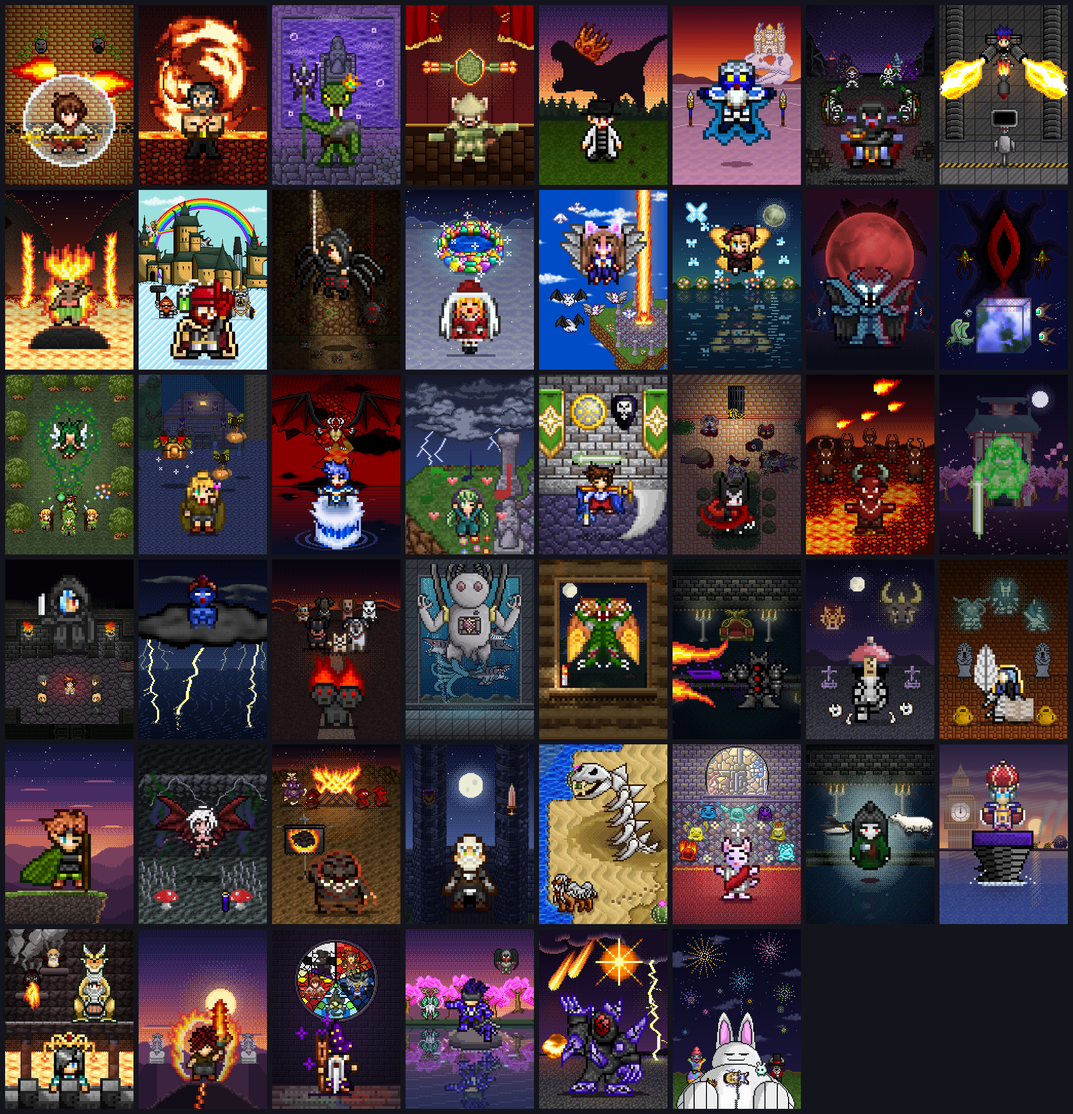
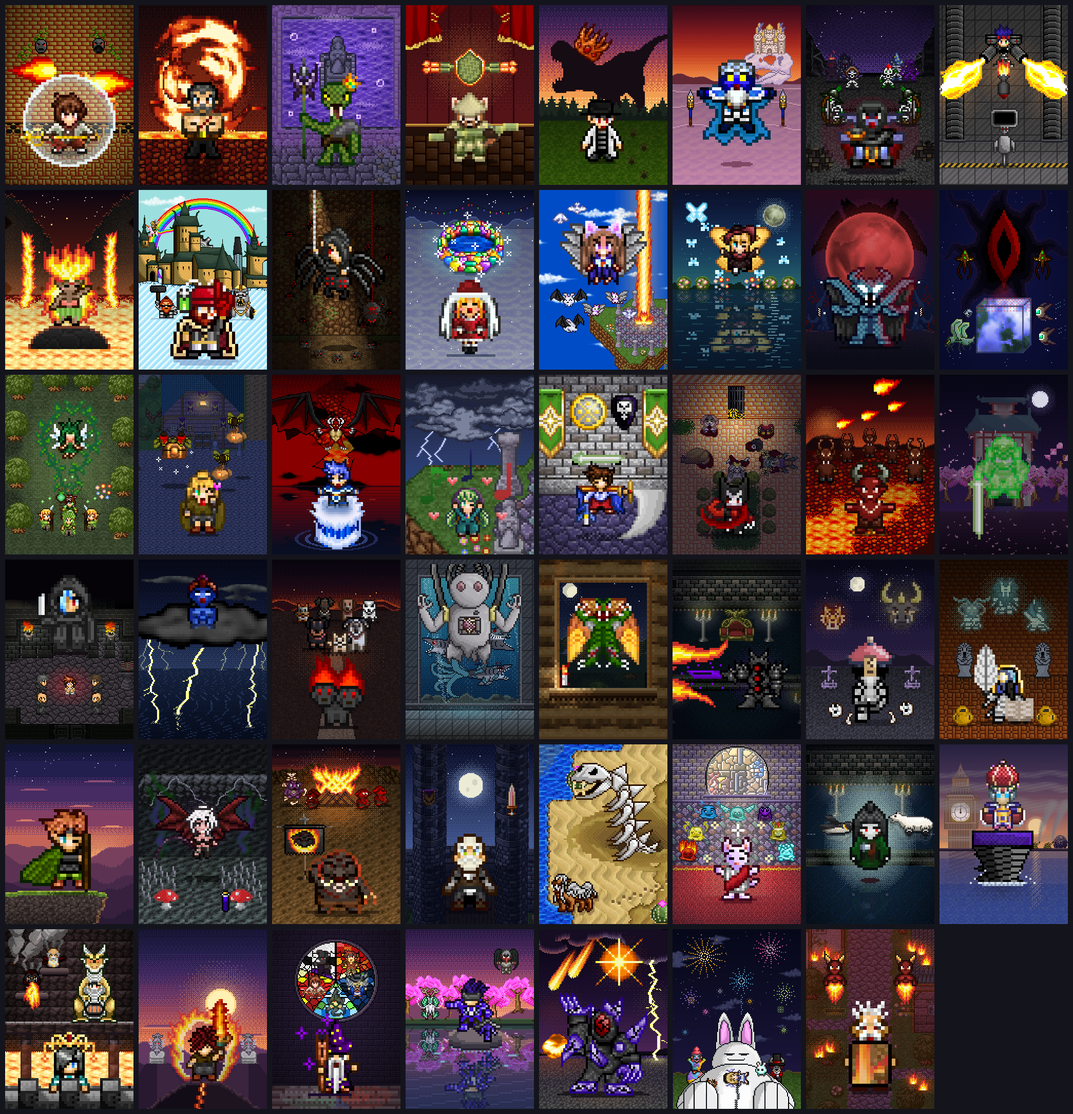
Gegner-Sleeve „Prophecy Fulfilled“ für Damus (End of the World)
Claude-Session: https://claude.ai/code/session_01TEnvTzH2xD44R6Unjv7vDo

Changed region(s): [[0.7464, 0.8336, 0.8708, 1.0]]

diff --git a/data/sleeve-proposals/runde6/generator/s47_prophecy_fulfilled.py b/data/sleeve-proposals/runde6/generator/s47_prophecy_fulfilled.py
@@ -1,0 +1,107 @@
+# -*- coding: utf-8 -*-
+"""47 Prophecy Fulfilled – Gegner „End of the World“ (sample-Structure Deck End of the World, Cover: Armageddon),
+Held/Hauptmotiv: Damus, the Prophet of Apocalypse (Base-Karte, NICHT „Captain Commander Damus“).
+
+Idee (≠ 45 „Spellstorm“: keine Sternexplosion, keine Kometen, kein Himmel): Die Prophezeiung hat sich erfüllt.
+Draufsicht auf die nächtliche Dorfstraße seiner Karte (vor dem Pub): Armageddon hat das Dorf getroffen, Dächer,
+Fassade und Baumkronen brennen, alles liegt im roten Widerschein. Mitten auf der Straße steht Damus groß und
+unversehrt mit seinem Weltuntergangs-Schild (auf ihm das Armageddon-Bild seiner Karte) – solange er ein Ifrit
+kontrolliert, trifft ihn Armageddon nicht (Heldentext). Links und rechts hinter ihm schweben als Wächter zwei
+Ifrits auf ihren Feuerstrahlen (er setzt sie in seine Support Zones; sie verstärken Armageddon), ihr Feuer
+beleuchtet den Boden unter ihnen.
+
+Quellen (Motive.xcf):
+  Damus:  Ebene 361 „Damos“ (16×25 samt Schild; gegen „Sichtbar #171“ = Ebene 357 pixelgleich, 0 Abweichungen).
+  Ifrit:  Ebene 576 „Ifrit“ (16×35 mit Feuerstrahl; rechter gespiegelt).
+  Dorf:   Ebene 362 „Ebene #680“ (Dorfkarte seiner Kartenszene, Ausschnitt x183–308/y128–303 – ohne die
+          Texte „FPS: 60“ und „PUB“; der Passant auf der Straße mit Pflaster von 40 Zeilen darüber übermalt).
+  Feuer:  Ebene 578 „Ebene #463“ (Flammen der Armageddon-Karte, vier Varianten, in Gruppen auf Dächern/Bäumen).
+Selbst gezeichnet: Nachtfärbung, roter Widerschein, Feuerschein, Schatten.
+
+Skalierung (Tiefenebenen):
+  Dorf, Flammen, Feuerschein – 2×-Raster (125×175)
+  Ifrits + ihre Schatten – 3×-Raster (84×117, um 2 px versetzt; spiegelgleich um x 125: Mitten 56/194)
+  Damus + Schatten – 7×-Raster (35×50, um 6 px versetzt), 16×25 → 336×525 px.
+  Gesichtsmitte: Augen auf Sprite-Spalten 6/9, Kopf 2–13 → Mitte 8,0 → 6 + 7·(9 + 8) = 125.
+  Gemessen am PNG: Augen x 333–416, Kopfumriss x 249–500 → Gesichtsmitte x = 375,0.
+"""
+import math, random
+import numpy as np
+from kitI import *  # noqa
+
+rnd = random.Random(47)
+B = 'Motive'
+
+# ------------------------------------------------------------------ Quellen
+damus = keep('o47_damus', crop_alpha(layer(B, 361)))                    # 16×25 mit Schild, = Sichtbar #171 pixelgleich
+ifrit = keep('o47_ifrit', crop_alpha(layer(B, 576)))                    # 16×35, schwebt auf seinem Feuerstrahl
+FL = []                                                                  # Flammen der Armageddon-Karte (Ebene 578)
+for p in parts(crop_alpha(layer(B, 578)), dil=0, minpx=10):
+    if p.shape[0] <= 13 and p.shape[1] >= 9 and not any(p.shape == q.shape and (p == q).all() for q in FL):
+        FL.append(p)
+for i, f in enumerate(FL): keep('o47_flame%d' % i, f)
+town = layer(B, 362)[128:303, 183:308].copy()                           # Dorfstraße seiner Karte (125×175)
+
+# Passant auf der Straße entfernen: Pflaster 40 Zeilen weiter oben
+FIGM = np.zeros(town.shape[:2], bool); FIGM[92:119, 69:88] = True
+town[FIGM] = town[np.roll(FIGM, -40, axis=0)]
+
+# ================================================================== Ebene 2× (125×175): brennendes Dorf bei Nacht
+P = Plane(125, 175, 2)
+t = town.astype(float)
+lum = t[..., :3].mean(-1, keepdims=True)
+night = t[..., :3] * np.array((0.42, 0.34, 0.46)) + lum * np.array((0.05, 0.02, 0.06))
+P.a[..., :3] = np.clip(night, 0, 255); P.a[..., 3] = 255
+
+
+def glow(cx, cy, r, col, a, ry=None):
+    ry = ry or r
+    for y in range(int(cy - ry), int(cy + ry) + 1):
+        for x in range(int(cx - r), int(cx + r) + 1):
+            d = math.hypot((x - cx) / r, (y - cy) / ry)
+            if d < 1:
+                q = dith(a * (1 - d) ** 1.5, x, y, 4)
+                if q > 0: P.blend(x, y, col, q)
+
+
+# rötlicher Widerschein des Weltenbrands über dem ganzen Dorf (oben stärker), geordnet gerastert
+for y in range(175):
+    for x in range(125):
+        P.blend(x, y, (150, 40, 14), dith(0.30 - 0.18 * y / 175, x, y, 6))
+
+# Brände: Armageddon hat das Dorf getroffen – Dach, Fassade und Baumkronen brennen
+FIRES = [(4, 20, 0), (14, 16, 2), (24, 22, 1), (98, 10, 3), (108, 14, 0), (112, 24, 2), (8, 112, 1), (18, 108, 3), (100, 140, 0), (109, 146, 2)]
+for (x, y, v) in FIRES:
+    glow(x + 5, y + 6, 16, (230, 90, 20), 0.55, 12)
+for (x, y, v) in FIRES:
+    P.paste(FL[v % len(FL)], x, y)
+# Feuerschein der Ifrit-Strahlen auf dem Boden unter ihnen (Mitten im 2×-Raster: 3·(gx+8)+2 → /2)
+for gx in (10, 56):
+    glow((3 * (gx + 8) + 2) / 2, (3 * (14 + 39) ) / 2, 14, (240, 120, 30), 0.40, 6)
+
+# ================================================================== Ebene 3× (84×117, um 2 px versetzt): zwei Ifrits
+# als Wächter, weiter hinten über dem Gras links und rechts der Straße schwebend (rechter gespiegelt, spiegelgleich
+# um x 125: Mitten 56 / 194)
+F3 = Plane(84, 117, 3, ox=2)
+IFY = 14
+for gx, spr in ((10, ifrit), (56, flip(ifrit))):
+    F3.paste(spr, gx, IFY)
+    # Schatten auf dem Boden, ein Stück unter der Flammenspitze (schwebt)
+    cx, cy = gx + 8, IFY + 35 + 4
+    for y in range(cy - 2, cy + 3):
+        for x in range(cx - 8, cx + 9):
+            if ((x + 0.5 - cx) / 6.5) ** 2 + ((y + 0.5 - cy) / 1.3) ** 2 <= 1:
+                if F3.a[y, x, 3] == 0: F3.px(x, y, (10, 4, 6), 120)
+
+# ================================================================== Ebene 7×: Damus
+# Gesichtsmitte Sprite-Spalte 8,0 (Augen Spalten 6/9, Kopf 2–13) → 6 + 7·(9 + 8) = 125 → x 375
+F7 = Plane(35, 50, 7, ox=6)
+FEET = 44
+for xx in range(-6, 6):
+    for yy in (0, 1):
+        if ((xx + 0.5) / 6.2) ** 2 + ((yy - 0.2) / 1.2) ** 2 <= 1:
+            F7.px(17 + xx, FEET + yy, (8, 4, 6), 140)
+F7.paste(damus, 9, FEET - damus.shape[0] + 1)
+
+cv = compose_planes([P, F3, F7])
+save(cv, '47_prophecy_fulfilled.png')

diff --git a/data/sleeve-proposals/runde6/notes_I.md b/data/sleeve-proposals/runde6/notes_I.md
@@ -2,3 +2,4 @@
 NN | English Name | Gegner | Held | Idee | Skalierung | Quellen | Rahmen
 45 | Spellstorm | Chaos-Diamond (geplant, planned:chaos-diamond, Deck spielt viele Zauber) | Chaos-Diamond, the Cracked Keeper | Zaubergewitter im Freien statt Höhle (≠ Shop „Cracked Keeper“): Chaos-Diamond (Base) steht groß und frontal auf dem nächtlichen Geröll der Dark Land (Hintergrund seiner Karte), um ihn entladen sich gleichzeitig mehrere Destruction-Spells wie bei seinem Heldeneffekt (oberste Zauber des Potion Decks auf einmal): über ihm platzt Armageddon als Sternexplosion, zwei vollständige Feuerschweife fallen links schräg auf den Horizont, wo ein Feuerpilz aufblüht; rechts fährt Chain Lightning aus der Gewitterwolke in die Ebene. Nach Feedback: Held von 2× auf 4× vergrößert, unvollständiger 36-px-Schweif ersetzt. Gesichtsmitte (roter Kern x 333–416) gemessen x = 375,0 | Hintergrund 2×-Raster (125×175); Held + Schatten 4×-Raster (63×88, um 3 px versetzt), 43×50 → 516×600 px (3× unmöglich: Kernmitte auf Sprite-Spalte 21,5) | Motive 241 „Chaos-Diamond #2“ (gegen Sichtbar #228 = Ebene 237; Fadenkreuz 240 und rote Blitzranke 238/239 der Karte bewusst weggelassen), 1286 „Dark Land“ (Geröll-/Leere-Kacheln), 577 „Armageddon“ (Sternexplosion, die beiden vollständigen 48-px-Schweife gespiegelt/−32°), 211 „Destruction Magic #4“ (Feuerpilz); Chain-Lightning-Blitz, Himmel, Wolken, Höhenzug, Licht, Schatten selbst gezeichnet | Rahmen: cosmic/gothic/ruby/amethyst
 46 | Fluffy Bulwark | Bubbles (geplant, planned:bubbles, Fun-Fun-Circus-Archetyp) | Bubbles, the Bouncy Bunny | Nacht über der schwebenden Zirkusinsel der Moe-Welt, Abschlussfeuerwerk der Fun-Fun-Show (≠ Shop „Fun-Fun Circus“: kein Zelt, keine Manege): Bubbles sitzt groß und nah als Brustbild auf dem Gras der Insel, wie auf seiner Base-Karte mit dem schlafenden Mädchen samt Armbrust auf dem Bauch und dem kleinen Hasen an der Schulter; hinter seinen Schultern spähen Clown (auf dem Ball) und Director hervor, er schirmt sie ab (Heldentext: fängt den Schaden der Kreaturen ab); darüber Feuerwerk in sieben Farben und vielen Größen, in zwei Tiefen gestaffelt. Nach Feedback: reingezoomt (Bubbles 1× → 2×), Himmel nachtdunkel, viel mehr und größeres Feuerwerk; Elephant und Strongman fielen dem engeren Ausschnitt zum Opfer. Gesichtsmitte (Augen x 303–362 / 387–446) gemessen x = 375,0 | fern 1×-Raster (Nachthimmel, Sterne, kleines Feuerwerk); nah 2×-Raster (125×175, um 1 px versetzt: großes Feuerwerk, Inselkante, Clown, Director, Bubbles 116×123 → 696×738 px) | Motive 593+591+588 (50 %)+589+Armbrust aus 585 (gegen Sichtbar #122 = Ebene 23 pixelgleich); MotiveMoe 36 Clown, 28/25/27/26 Director, 38 Feuerwerkssterne (zwei), 553 Himmel (nachtblau umgefärbt), 478 Graskachel der Relic-Insel; Feuerwerk (im Stil von 38), Sterne, Inselkante, Schatten selbst gezeichnet | Rahmen: card/lacquer/rose/sapphire
+47 | Prophecy Fulfilled | End of the World (sample-Structure Deck End of the World) | Damus, the Prophet of Apocalypse | Die Prophezeiung hat sich erfüllt (≠ 45: keine Sternexplosion, keine Kometen, kein Himmel): Draufsicht auf die nächtliche Dorfstraße seiner Karte, Armageddon (Cover) hat das Dorf getroffen – Dächer, Fassade und Baumkronen brennen, alles im roten Widerschein; mitten auf der Straße steht Damus (Base, nicht Captain Commander) groß und unversehrt mit seinem Weltuntergangs-Schild (darauf das Armageddon-Bild seiner Karte), denn solange er ein Ifrit kontrolliert, trifft ihn Armageddon nicht; links und rechts hinter ihm schweben spiegelgleich zwei Ifrits als Wächter auf ihren Feuerstrahlen, ihr Feuer erhellt den Boden. Gesichtsmitte (Augen x 333–416, Kopfumriss 249–500) gemessen x = 375,0 | Dorf, Flammen, Licht 2×-Raster (125×175); Ifrits + Schatten 3×-Raster (84×117, +2 px); Damus + Schatten 7×-Raster (35×50, +6 px), 16×25 → 336×525 px | Motive 361 „Damos“ (gegen Sichtbar #171 = Ebene 357 pixelgleich), 576 „Ifrit“ (rechter gespiegelt), 362 Dorfkarte (Ausschnitt ohne die Texte „FPS: 60“/„PUB“, Passant übermalt), 578 Flammen der Armageddon-Karte (vier Varianten); Nachtfärbung, Widerschein, Feuerschein, Schatten selbst gezeichnet | Rahmen: filigree/bronze/ruby/amber

diff --git a/data/sleeve-proposals/runde6/concepts.md b/data/sleeve-proposals/runde6/concepts.md
@@ -45,3 +45,4 @@
 18 | Sticky Fingers | nachts vor dem Rathaus: Sparkfly Worker und Attendant schleppen Schatztruhe und Goldsäcke aus dem leuchtenden Giebelfenster, vorn streckt Lilly (Base) frech die Zunge heraus – ohne Königin, ohne Wabe/Taverne
 45 | Spellstorm | Zaubergewitter im Freien (≠ „Cracked Keeper“: keine Höhle, kein roter Felsriss): Chaos-Diamond (Base) steht groß frontal auf dem nächtlichen Geröll der Dark Land, um ihn entladen sich gleichzeitig mehrere Destruction-Spells – links platzt Armageddon am Himmel und schleudert Feuerschweife auf den Horizont, wo ein Feuerpilz aufblüht; rechts fährt Chain Lightning aus der Gewitterwolke in die Ebene
 46 | Fluffy Bulwark | Nacht über der schwebenden Zirkusinsel der Moe-Welt (≠ „Fun-Fun Circus“: kein Zelt, keine Manege): Bubbles (Base, mit dem schlafenden Mädchen auf dem Bauch) groß und nah als Brustbild, hinter seinen Schultern spähen Clown und Director hervor, er schirmt sie ab; darüber großes, gestaffeltes Feuerwerk in vielen Farben
+47 | Prophecy Fulfilled | Die Prophezeiung hat sich erfüllt (≠ 45 Spellstorm: keine Sternexplosion, keine Kometen): Draufsicht auf die brennende Dorfstraße seiner Karte bei Nacht, Damus (Base) steht groß und unversehrt mit seinem Weltuntergangs-Schild mitten auf der Straße, zwei Ifrits schweben als Wächter hinter ihm

diff --git a/data/sleeve-proposals/runde6/README.md b/data/sleeve-proposals/runde6/README.md
@@ -59,6 +59,7 @@ Rahmen + Shop: `generator/build_frames_r6.py` (erzeugt `frames_r6.json` aus den 
 | 44 | Sakura Mirror | Grand Rebellion! | Champion, the Stormbringer | sakura-mirror.png | wave/lacquer/rose |
 | 45 | Spellstorm | Chaos-Diamond (geplant, Deck spielt viele Zauber) | Chaos-Diamond, the Cracked Keeper | spellstorm.png | cosmic/gothic/ruby/amethyst |
 | 46 | Fluffy Bulwark | Bubbles (geplant, Fun-Fun-Circus-Archetyp) | Bubbles, the Bouncy Bunny | fluffy-bulwark.png | card/lacquer/rose/sapphire |
+| 47 | Prophecy Fulfilled | End of the World (Armageddon + Ifrits) | Damus, the Prophet of Apocalypse | prophecy-fulfilled.png | filigree/bronze/ruby/amber |
 
 45 und 46 gehören zu geplanten Gegnern, deren Decks es noch nicht gibt: Sie stehen unter den Platzhalter-IDs `planned:chaos-diamond` bzw. `planned:bubbles` in `data/shop/cpu-sleeves.json` (nicht käuflich, im Spiel noch unsichtbar). Sobald die Decks existieren, dort die `deckId` auf die echte Deck-ID umstellen (bzw. in `BRIEF.md` und `frame_r6.py` neu laufen lassen).
 
